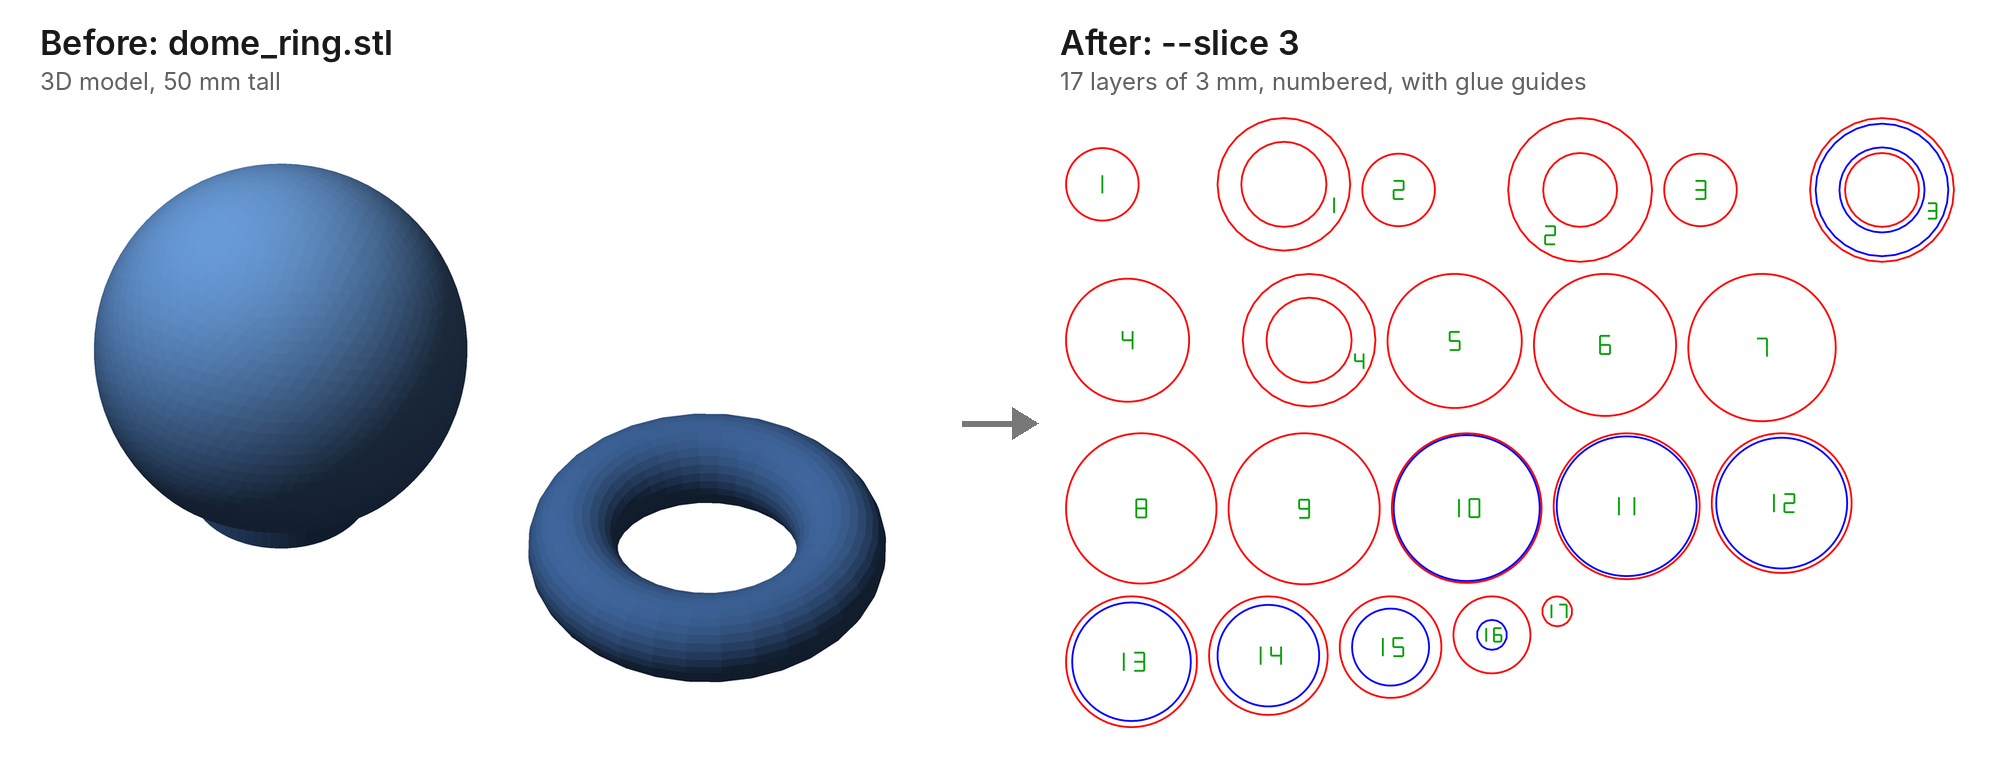
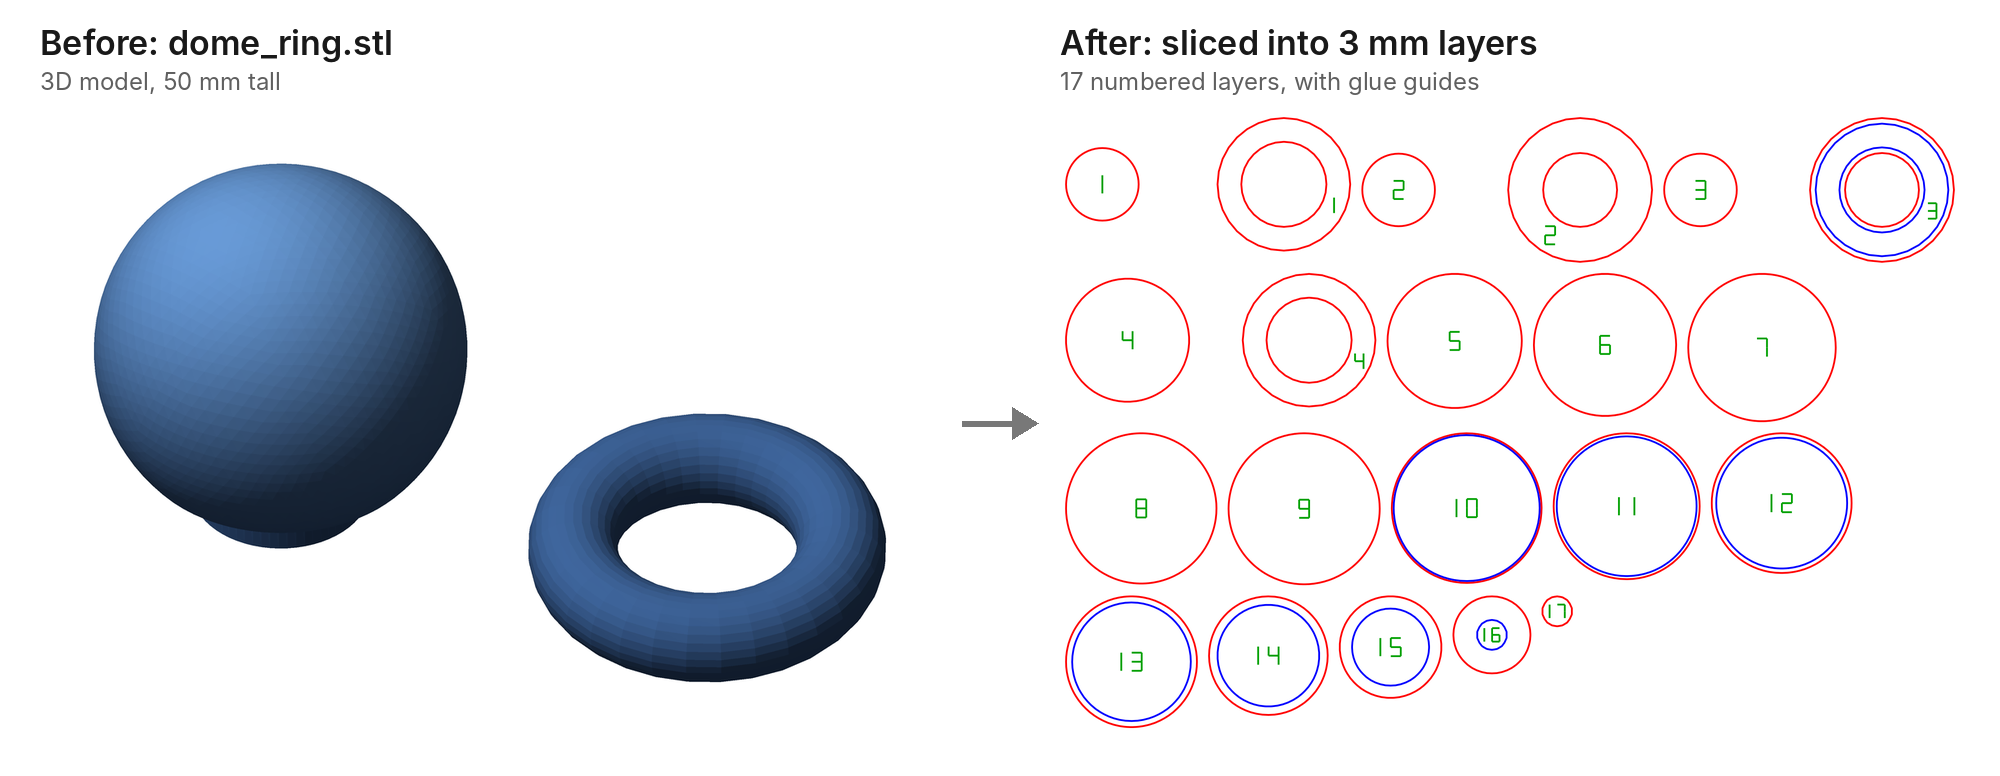
Show before/after pictures and 3D previews on the website
- Example buttons are now cards showing each 3D model before conversion
- Loading an example shows the 3D model next to its SVG result
- New "Before and after" section with the mountain and ball-and-ring
  pictures, with stacked versions for phones
- Ball-and-ring before/after regenerated from current output

Claude-Session: https://claude.ai/code/session_01D2PD2RsM4hwCpEj2bXR2Nx

diff --git a/docs/index.html b/docs/index.html
@@ -175,13 +175,18 @@
   .drop svg.icon { width: 56px; height: 56px; margin-bottom: 14px; }
   .drop strong { font-size: 1.3rem; font-variation-settings: "wdth" 112; }
   .drop p { margin: 6px 0 0; color: var(--muted); }
-  .examples { margin-top: 22px; display: flex; flex-wrap: wrap; gap: 8px; justify-content: center; }
-  .examples span { color: var(--muted); font-size: 0.9rem; width: 100%; }
-  .examples button {
-    font: inherit; font-size: 0.9rem; color: var(--ink); background: #eef3f1; border: 1px solid var(--line);
-    border-radius: 999px; padding: 6px 14px; cursor: pointer;
+  .examples { margin-top: 26px; width: 100%; max-width: 560px; }
+  .examples > span { display: block; color: var(--muted); font-size: 0.9rem; margin-bottom: 10px; }
+  .example-list { display: grid; grid-template-columns: 1fr 1fr; gap: 12px; }
+  .example {
+    font: inherit; color: var(--ink); text-align: left; cursor: pointer;
+    background: #f6f9f8; border: 1px solid var(--line); border-radius: var(--radius-control);
+    padding: 10px; display: flex; flex-direction: column; gap: 8px;
   }
-  .examples button:hover { border-color: var(--mat); }
+  .example:hover { border-color: var(--mat); background: #eef4f1; }
+  .example img { width: 100%; height: auto; aspect-ratio: 700 / 470; object-fit: contain; background: #fff; border-radius: 4px; }
+  .example strong { font-size: 0.98rem; font-variation-settings: "wdth" 100; }
+  .example small { display: block; color: var(--muted); font-size: 0.85rem; }
 
   .result { display: flex; flex-direction: column; flex: 1; }
   .result-head {
@@ -191,6 +196,21 @@
   .filename { font-weight: 700; font-size: 1.05rem; word-break: break-all; }
   .summary { color: var(--muted); font-size: 0.92rem; }
   .preview { padding: 20px; flex: 1; display: flex; align-items: center; justify-content: center; overflow: auto; }
+  .compare { display: flex; align-items: center; gap: 4px; padding-left: 20px; flex: 1; }
+  .compare .preview { padding-left: 8px; }
+  .source { margin: 0; flex: 0 0 30%; text-align: center; }
+  .source img { width: 100%; height: auto; display: block; }
+  .source figcaption, .after-label { color: var(--muted); font-size: 0.85rem; margin-top: 6px; }
+  .arrow { color: #9aa8a3; font-size: 1.6rem; flex: none; }
+
+  .showcase { padding: 4px 0 48px; }
+  .showcase h2 { font-size: 1.5rem; margin: 0 0 6px; font-variation-settings: "wdth" 118; }
+  .showcase > p { margin: 0 0 22px; color: var(--muted-on-mat); max-width: 40rem; }
+  .shots { display: grid; gap: 20px; }
+  .shot { margin: 0; background: var(--sheet); color: var(--ink); border-radius: var(--radius-sheet); padding: 14px 14px 12px; box-shadow: 0 18px 40px -22px rgba(0,0,0,0.55); }
+  .shot img { width: 100%; height: auto; display: block; }
+  .shot figcaption { padding: 10px 6px 2px; font-size: 0.95rem; color: var(--muted); }
+  .shot figcaption strong { color: var(--ink); }
   .preview svg { width: 100%; height: auto; max-height: 70vh; }
   .preview svg path { stroke-width: 1.3px; vector-effect: non-scaling-stroke; stroke-linejoin: round; }
   .legend { list-style: none; margin: 0; padding: 12px 20px 16px; border-top: 1px solid var(--line); display: flex; flex-wrap: wrap; gap: 6px 22px; font-size: 0.92rem; }
@@ -216,6 +236,9 @@
     .tool { grid-template-columns: 1fr; }
     .sheet-area { order: -1; }
     .notes { grid-template-columns: 1fr; gap: 20px; }
+    .compare { flex-direction: column; padding: 16px 16px 0; }
+    .source { flex-basis: auto; width: 55%; }
+    .arrow { transform: rotate(90deg); }
     .sheet { min-height: 340px; }
   }
   @media (prefers-reduced-motion: reduce) { * { transition: none !important; } }
@@ -295,8 +318,16 @@
             <p>or click to choose one. Your file never leaves your computer.</p>
             <div class="examples">
               <span>No model handy? Try one:</span>
-              <button type="button" data-example="testplate.stl" data-mode="outline">Plate with pockets</button>
-              <button type="button" data-example="dome_ring.stl" data-mode="slice">Ball and ring, sliced</button>
+              <div class="example-list">
+                <button type="button" class="example" data-example="testplate.stl" data-mode="outline" data-img="img/plate-3d.webp">
+                  <img src="img/plate-3d.webp" width="700" height="459" alt="3D view of a flat plate with a round hole and a stepped square pocket">
+                  <span><strong>Plate with pockets</strong><small>Traced as an outline, with each pocket depth in its own color</small></span>
+                </button>
+                <button type="button" class="example" data-example="dome_ring.stl" data-mode="slice" data-img="img/ball-ring-3d.webp">
+                  <img src="img/ball-ring-3d.webp" width="700" height="488" alt="3D view of a ball on a short pedestal next to a ring">
+                  <span><strong>Ball and ring</strong><small>Sliced into 3 mm layers to cut and stack</small></span>
+                </button>
+              </div>
             </div>
           </div>
           <div class="result" id="result" hidden>
@@ -304,7 +335,14 @@
               <span class="filename" id="filename"></span>
               <span class="summary" id="summary" aria-live="polite"></span>
             </div>
-            <div class="preview" id="preview"></div>
+            <div class="compare">
+              <figure class="source" id="source" hidden>
+                <img id="source-img" alt="">
+                <figcaption>The 3D model</figcaption>
+              </figure>
+              <span class="arrow" id="arrow" aria-hidden="true" hidden>&#8594;</span>
+              <div class="preview" id="preview"></div>
+            </div>
             <ul class="warnings" id="warnings"></ul>
             <ul class="legend" id="legend"></ul>
           </div>
@@ -314,6 +352,29 @@
         <input type="file" id="file" accept=".stl,.obj" hidden>
       </div>
     </main>
+
+    <section class="showcase" aria-labelledby="showcase-title">
+      <h2 id="showcase-title">Before and after</h2>
+      <p>Real conversions: each 3D model next to the laser file it becomes.</p>
+      <div class="shots">
+        <figure class="shot">
+          <picture>
+            <source media="(max-width: 700px)" srcset="img/mountain-before-after-tall.webp" width="900" height="1424">
+          <img src="img/mountain-before-after.webp" width="2000" height="722" loading="lazy"
+               alt="Before: a 3D mountain plaque with three recessed pockets. After: its SVG, with the red outer cut line and the three pockets traced in blue.">
+          </picture>
+          <figcaption><strong>Outline mode.</strong> A mountain plaque becomes a cut line, plus its three pockets in blue to engrave 6.6 mm deep.</figcaption>
+        </figure>
+        <figure class="shot">
+          <picture>
+            <source media="(max-width: 700px)" srcset="img/ball-ring-before-after-tall.webp" width="900" height="1534">
+          <img src="img/ball-ring-before-after.webp" width="2000" height="776" loading="lazy"
+               alt="Before: a ball on a short pedestal and a ring. After: 17 numbered circular layers of 3 mm, with blue glue guides.">
+          </picture>
+          <figcaption><strong>Slice mode.</strong> A ball and a ring become 17 numbered layers of 3 mm plywood, with glue guides showing where each layer sits.</figcaption>
+        </figure>
+      </div>
+    </section>
 
     <section class="notes">
       <div>

diff --git a/docs/app.js b/docs/app.js
@@ -37,6 +37,8 @@
 
   document.querySelectorAll('[data-example]').forEach(b => b.addEventListener('click', async () => {
     setMode(b.dataset.mode);
+    state.sourceImg = b.dataset.img;
+    state.sourceAlt = b.querySelector('img').alt;
     try {
       const res = await fetch('examples/' + b.dataset.example);
       if (!res.ok) throw new Error('could not load the example');
@@ -45,6 +47,7 @@
   }));
 
   function loadFile(file) {
+    state.sourceImg = null;   // only the examples come with a picture of the model
     if (!/\.(stl|obj)$/i.test(file.name)) { showError(`${file.name} isn't an STL or OBJ file. Export your model as STL and try again.`); return; }
     const reader = new FileReader();
     reader.onload = () => load(reader.result, file.name);
@@ -110,6 +113,9 @@
     drop.hidden = true;
     $('result').hidden = false;
     $('filename').textContent = state.outName;
+    const hasSource = Boolean(state.sourceImg);
+    $('source').hidden = $('arrow').hidden = !hasSource;
+    if (hasSource) { $('source-img').src = state.sourceImg; $('source-img').alt = state.sourceAlt; }
     $('summary').textContent = r.summary;
     const preview = $('preview');
     preview.innerHTML = r.svg;
